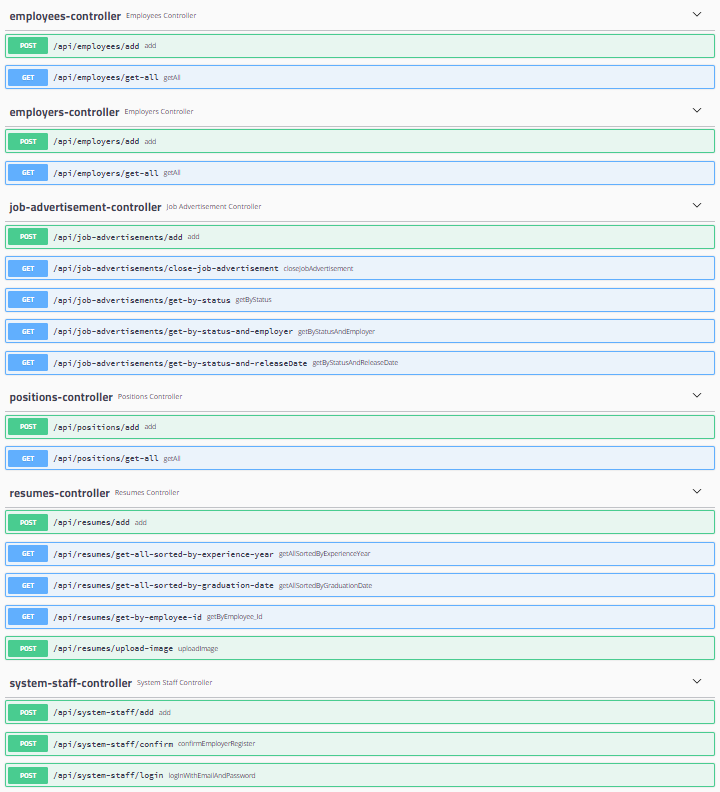
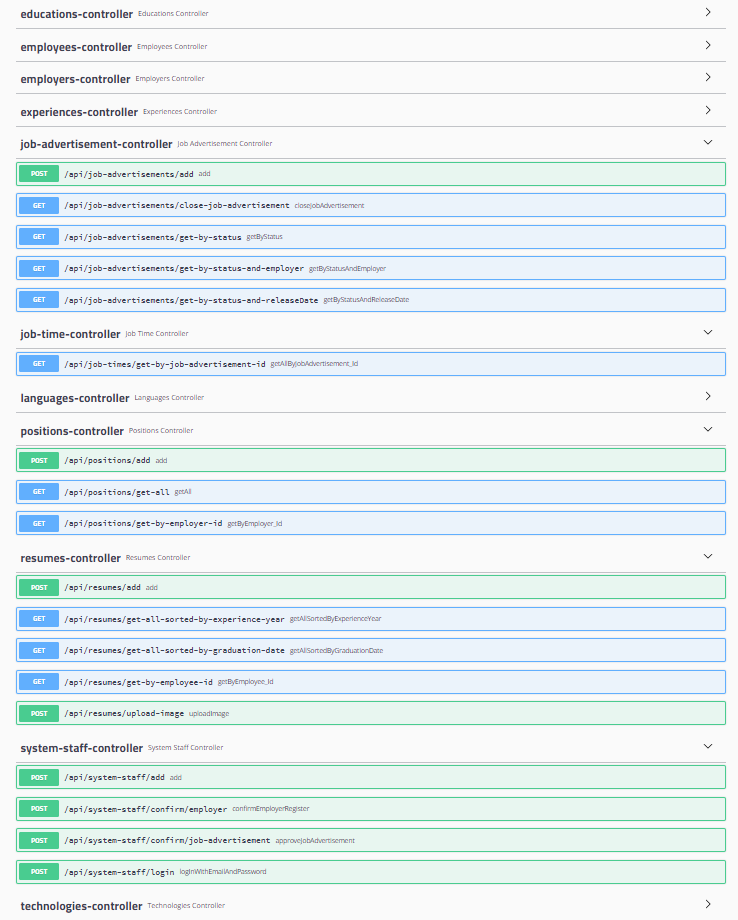
README updated and new images added

Changed region(s): [[0.0, 0.0, 1.0, 1.0]]

diff --git a/README.md b/README.md
@@ -1,11 +1,15 @@
 # HRMS-back-end
 Engin Demiroğ, Java + React bootcamp HRMS project front-end codes.
 
-[Spring Boot](https://spring.io/projects/spring-boot)
+[React JS Front-end Project](https://github.com/yusufarisoy/HRMS-front-end)
 
 ## In App Screenshots
-
 ![managers](in_app_screenshots/api_managers.png)
+
+#### Job-ad created and System Staff approved
+![managers](in_app_screenshots/ad_create_approval_false.png)
+
+![managers](in_app_screenshots/api_response_approve_job_ad.png)
 
 #### Employer registered and informed about confirmations
 ![employer](in_app_screenshots/api_employer_add.png)
@@ -26,3 +30,6 @@ Engin Demiroğ, Java + React bootcamp HRMS project front-end codes.
 
 #### Notification about confirmation mail from server-side
 ![mail info](in_app_screenshots/server_mail_send.png)
+
+#### Technologies
+[Spring Boot](https://spring.io/projects/spring-boot)
